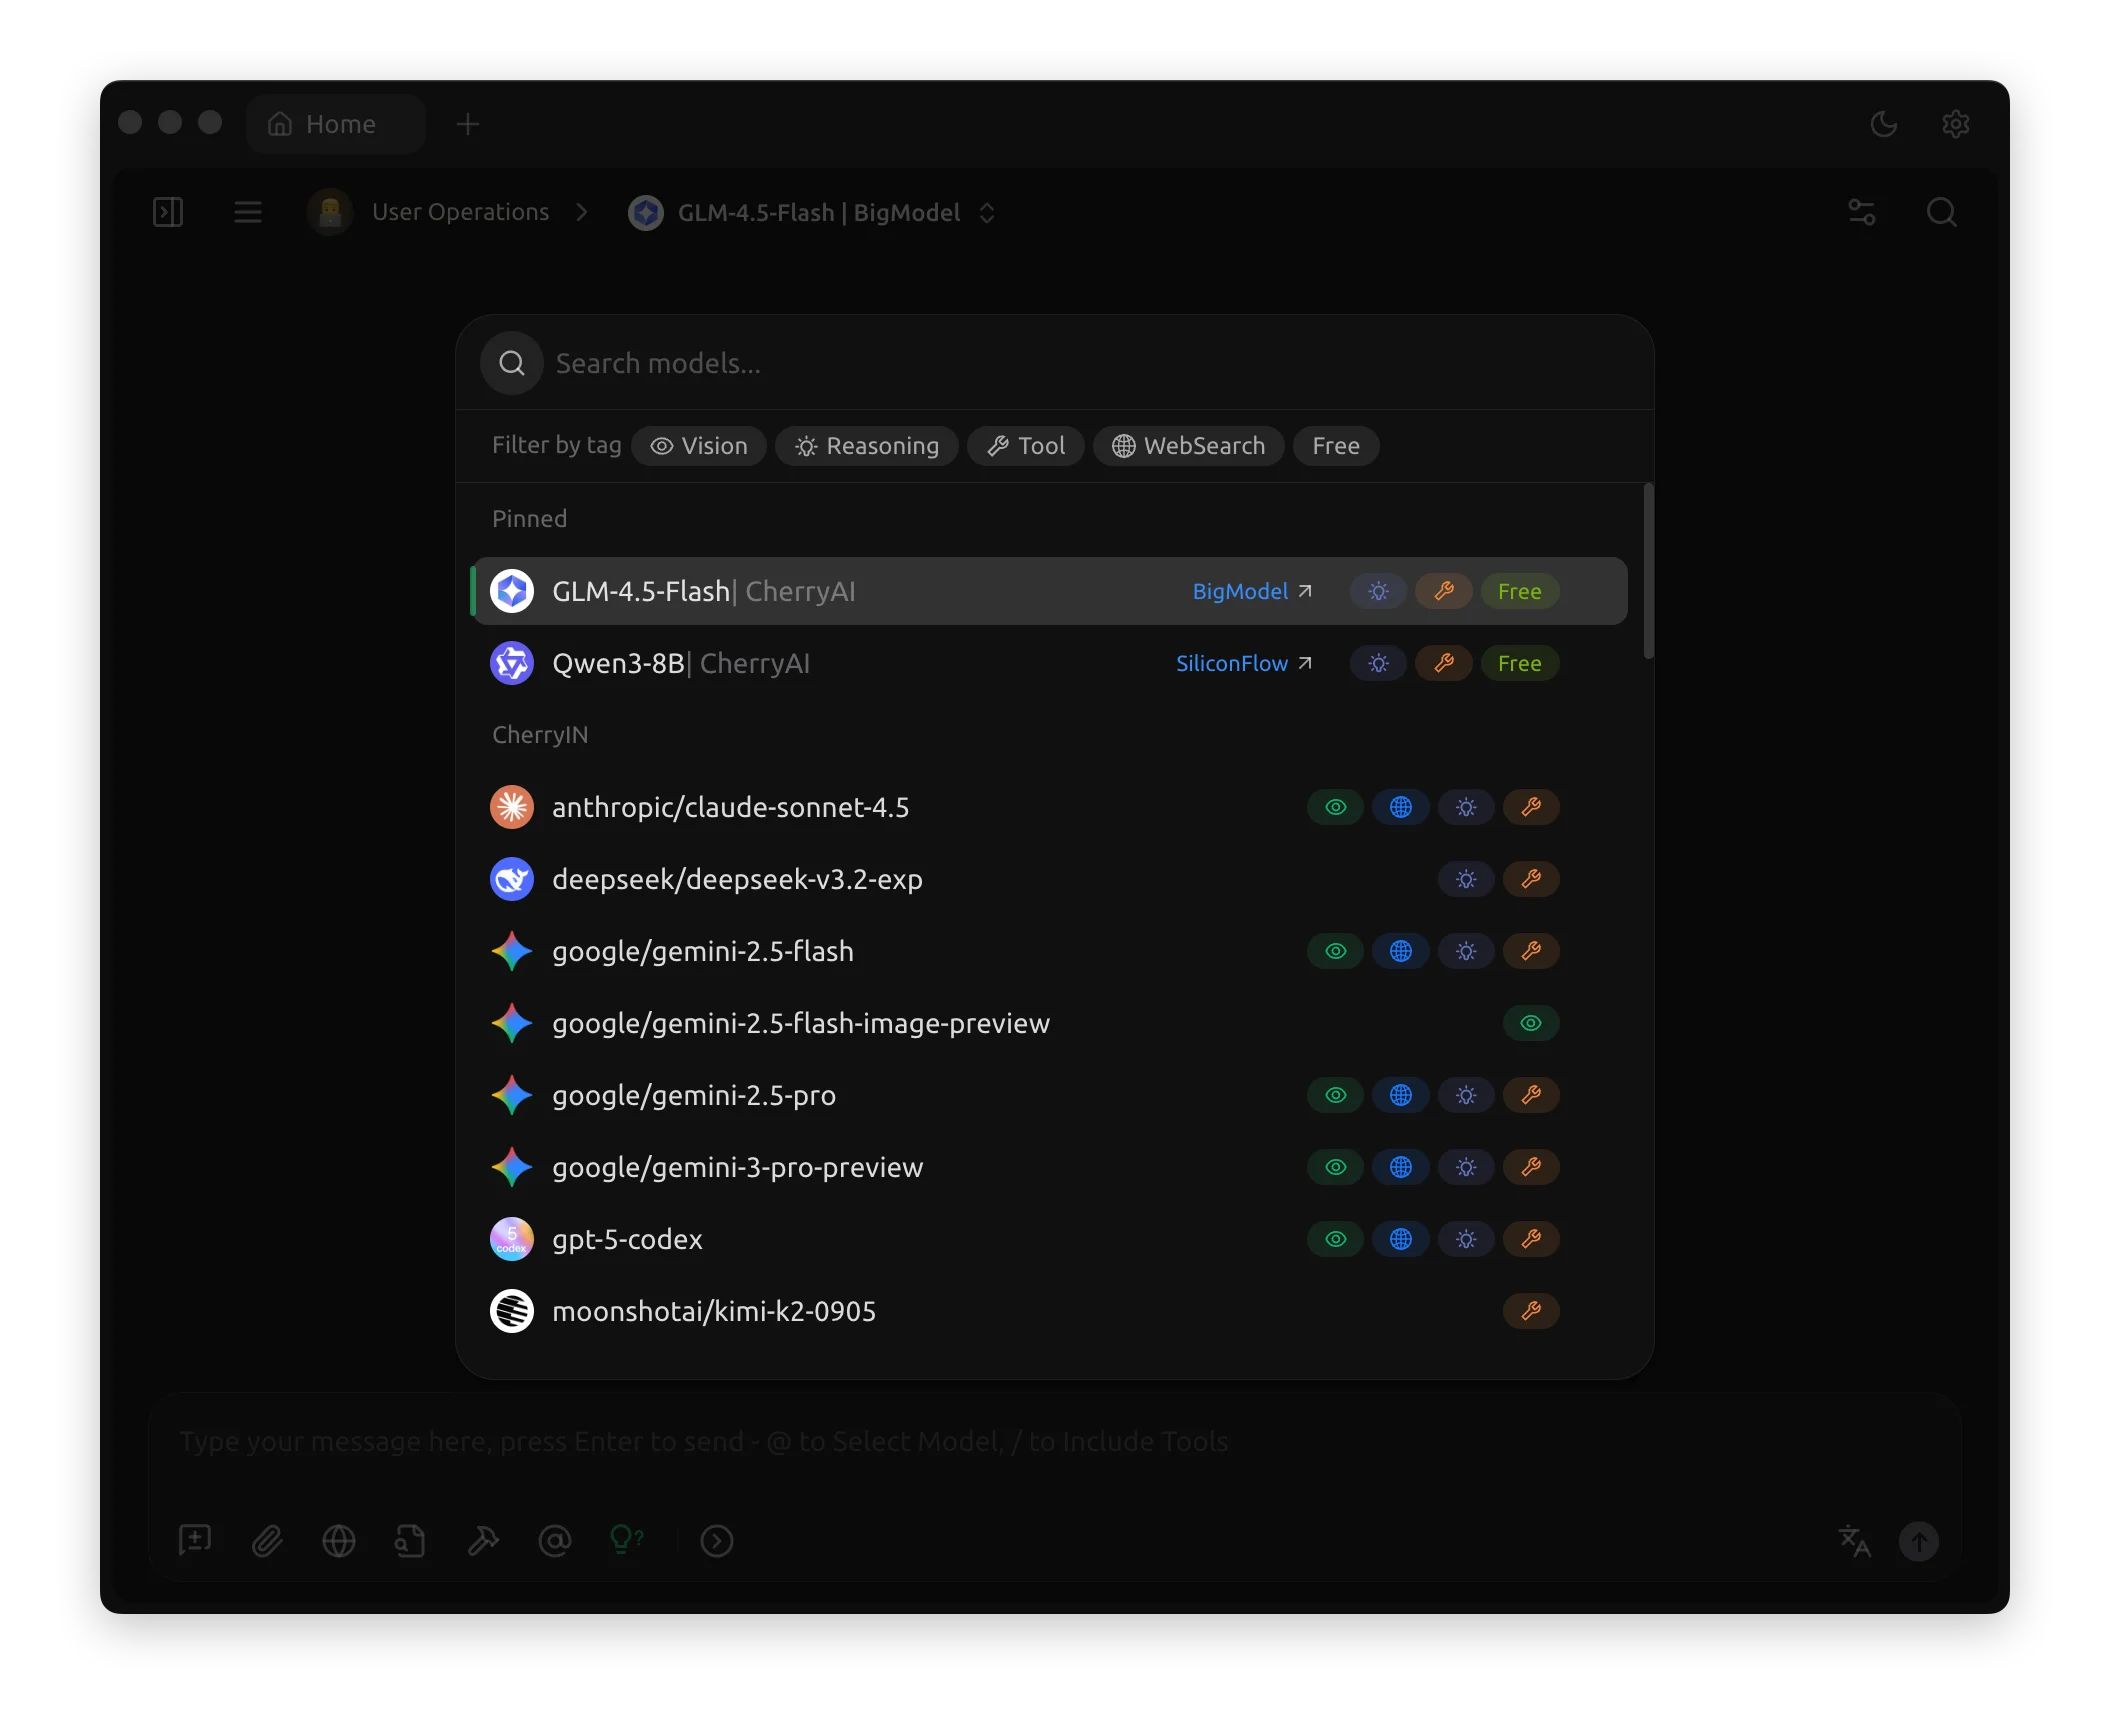
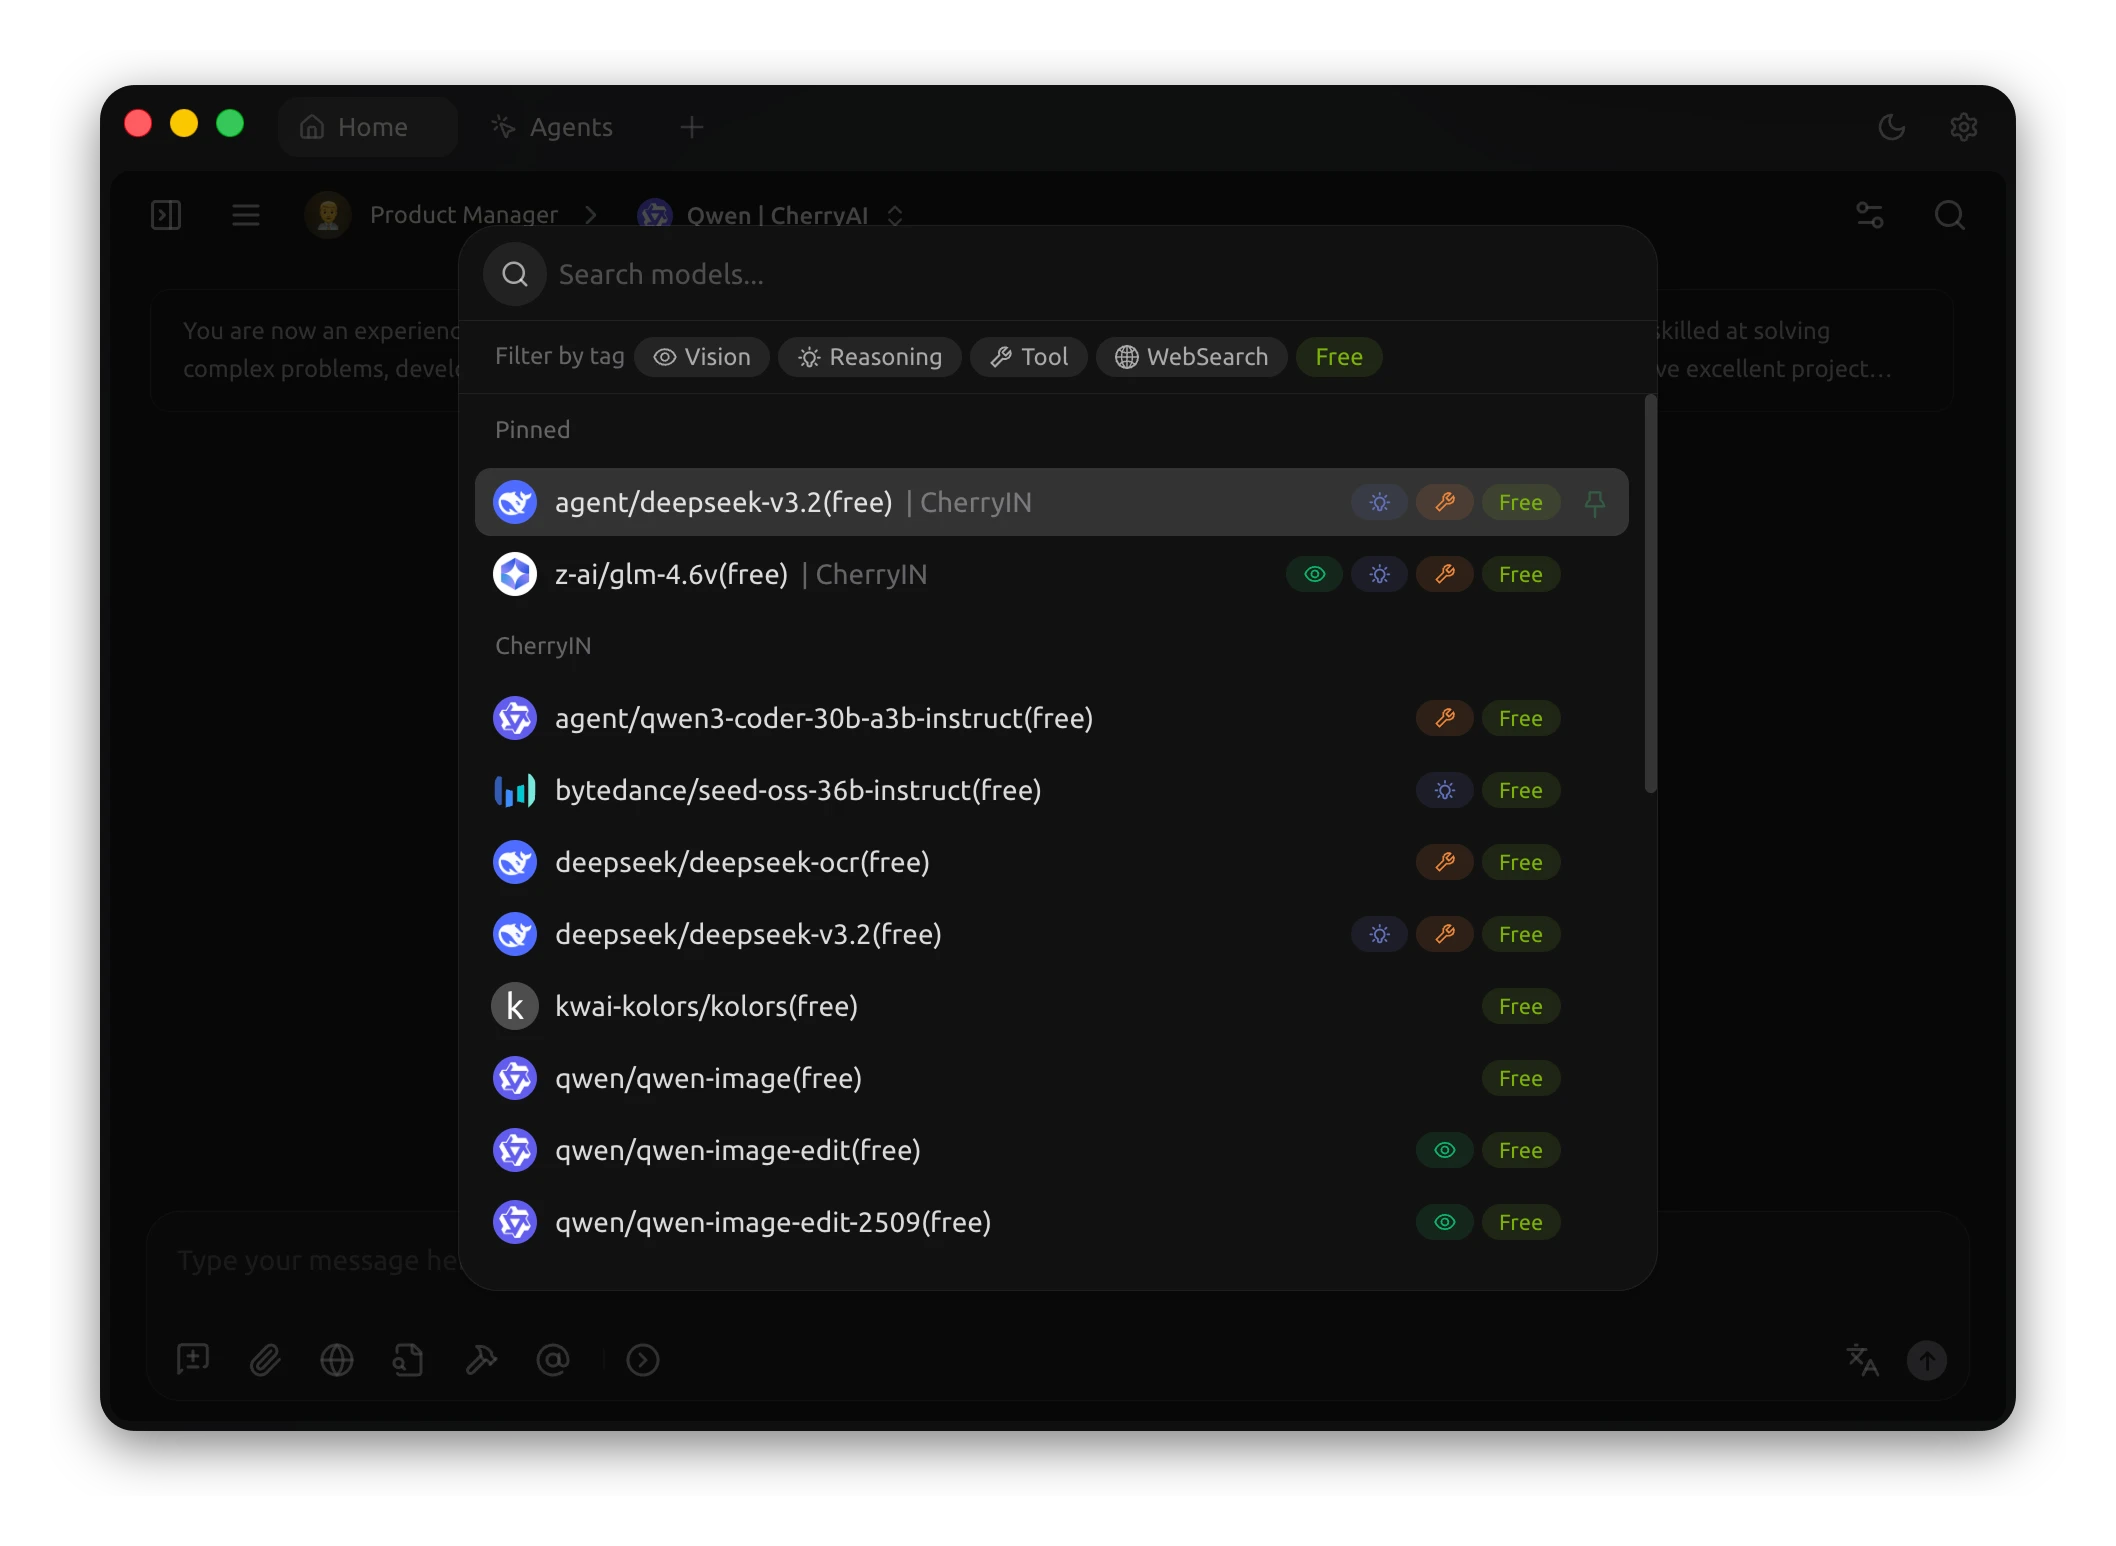
feat(home): refresh free models section with DeepSeek V3.2 and GLM-4.6V
Swap the two showcased free models to reflect the newer, more capable
options now available through CherryIN, and link them to their new
documentation pages. Screenshots are updated to the matching CherryIN
model list in both light and dark modes, retaining the original shadow
styling.

diff --git a/src/pages/home/components/FreeModelsSection.tsx b/src/pages/home/components/FreeModelsSection.tsx
@@ -18,19 +18,19 @@ interface FreeModel {
 
 const freeModels: FreeModel[] = [
   {
-    nameKey: 'free_models.glm.name',
-    descriptionKey: 'free_models.glm.description',
-    href: 'https://docs.cherry-ai.com/pre-basic/providers/cherryai/mian-fei-ti-yan-zhi-pu-glm4.5air-qing-liang-gao-xiao-xin-xuan-ze',
-    features: ['free_models.glm.feature1', 'free_models.glm.feature2', 'free_models.glm.feature3'],
+    nameKey: 'free_models.deepseek.name',
+    descriptionKey: 'free_models.deepseek.description',
+    href: 'https://docs.cherry-ai.com/pre-basic/providers/cherryai/mian-fei-ti-yan-deepseek-v3.2-qi-jian-xi-shu-zhu-yi-li-moe',
+    features: ['free_models.deepseek.feature1', 'free_models.deepseek.feature2', 'free_models.deepseek.feature3'],
     icon: Zap,
     iconColor: 'text-amber-500',
     iconBg: 'bg-amber-500/10'
   },
   {
-    nameKey: 'free_models.qwen.name',
-    descriptionKey: 'free_models.qwen.description',
-    href: 'https://docs.cherry-ai.com/pre-basic/providers/cherryai/mian-fei-ti-yan-qwen38b-you-gui-ji-liu-dong-ti-gong',
-    features: ['free_models.qwen.feature1', 'free_models.qwen.feature2', 'free_models.qwen.feature3'],
+    nameKey: 'free_models.glm.name',
+    descriptionKey: 'free_models.glm.description',
+    href: 'https://docs.cherry-ai.com/pre-basic/providers/cherryai/mian-fei-ti-yan-zhi-pu-glm-4.6v-shi-jue-qi-jian-duo-mo-tai-moe',
+    features: ['free_models.glm.feature1', 'free_models.glm.feature2', 'free_models.glm.feature3'],
     icon: Sparkles,
     iconColor: 'text-purple-500',
     iconBg: 'bg-purple-500/10'